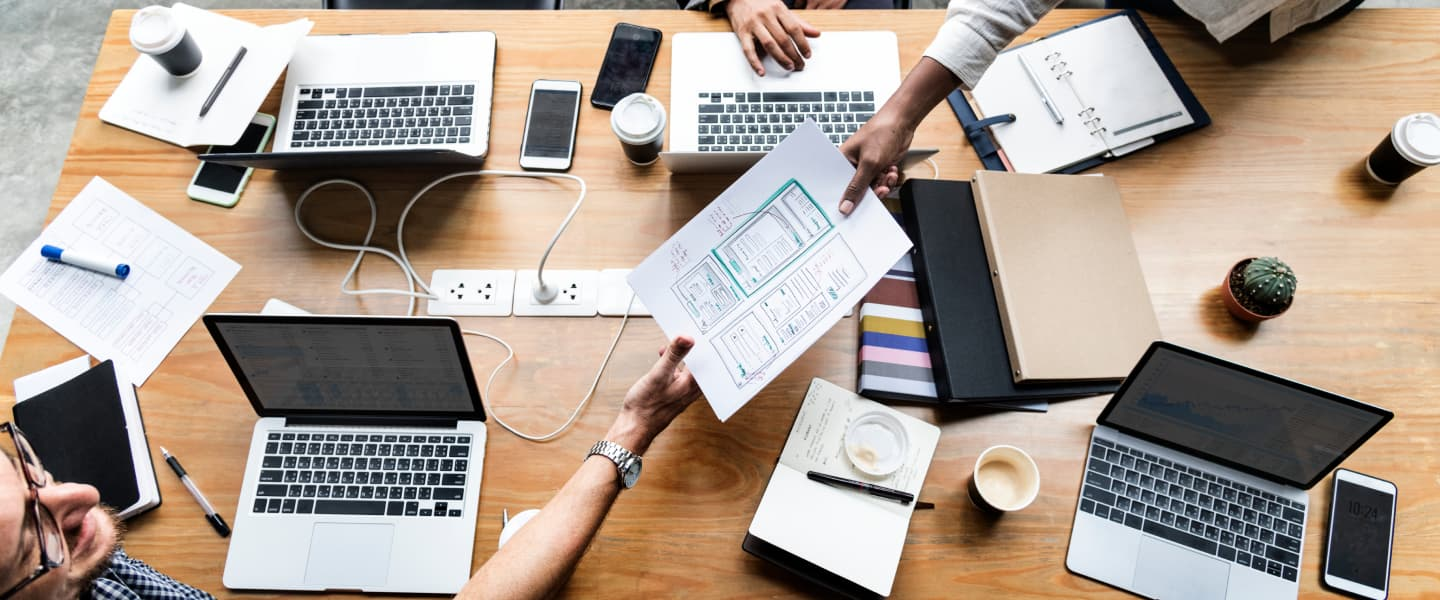
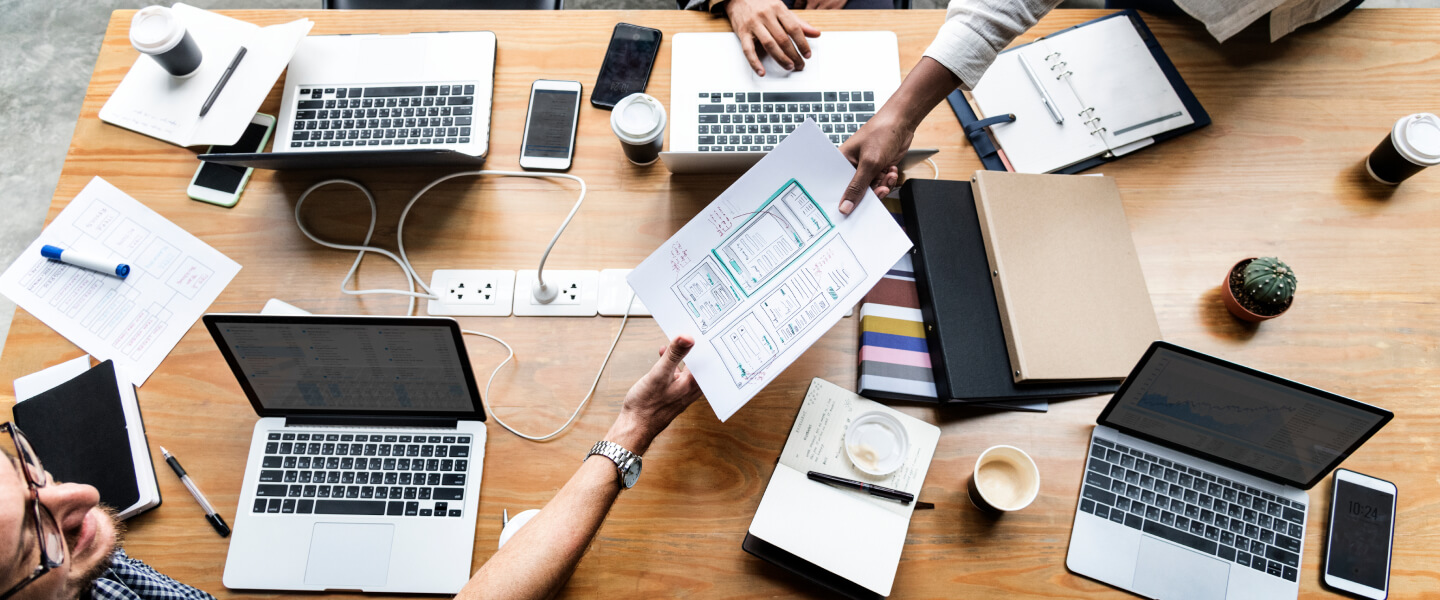
***

diff --git a/css/styles.css b/css/styles.css
@@ -429,10 +429,12 @@ screen and (min-resolution: 2dppx) {
 
 @media screen and (min-width: 1158px) {
     .page-hero {
+    max-width: 1440px;
         padding: 188px 0;
-    background-image: linear-gradient(rgba(46, 47, 66, 0.7),
+        background-image: linear-gradient(to bottom,
+                rgba(46, 47, 66, 0.7),
                 rgba(46, 47, 66, 0.7)),
-            url(../images/people-office1.jpg);
+            url(../images/people-office.jpg);
     }
     
     @media screen and (min-device-pixel-ratio: 2),
